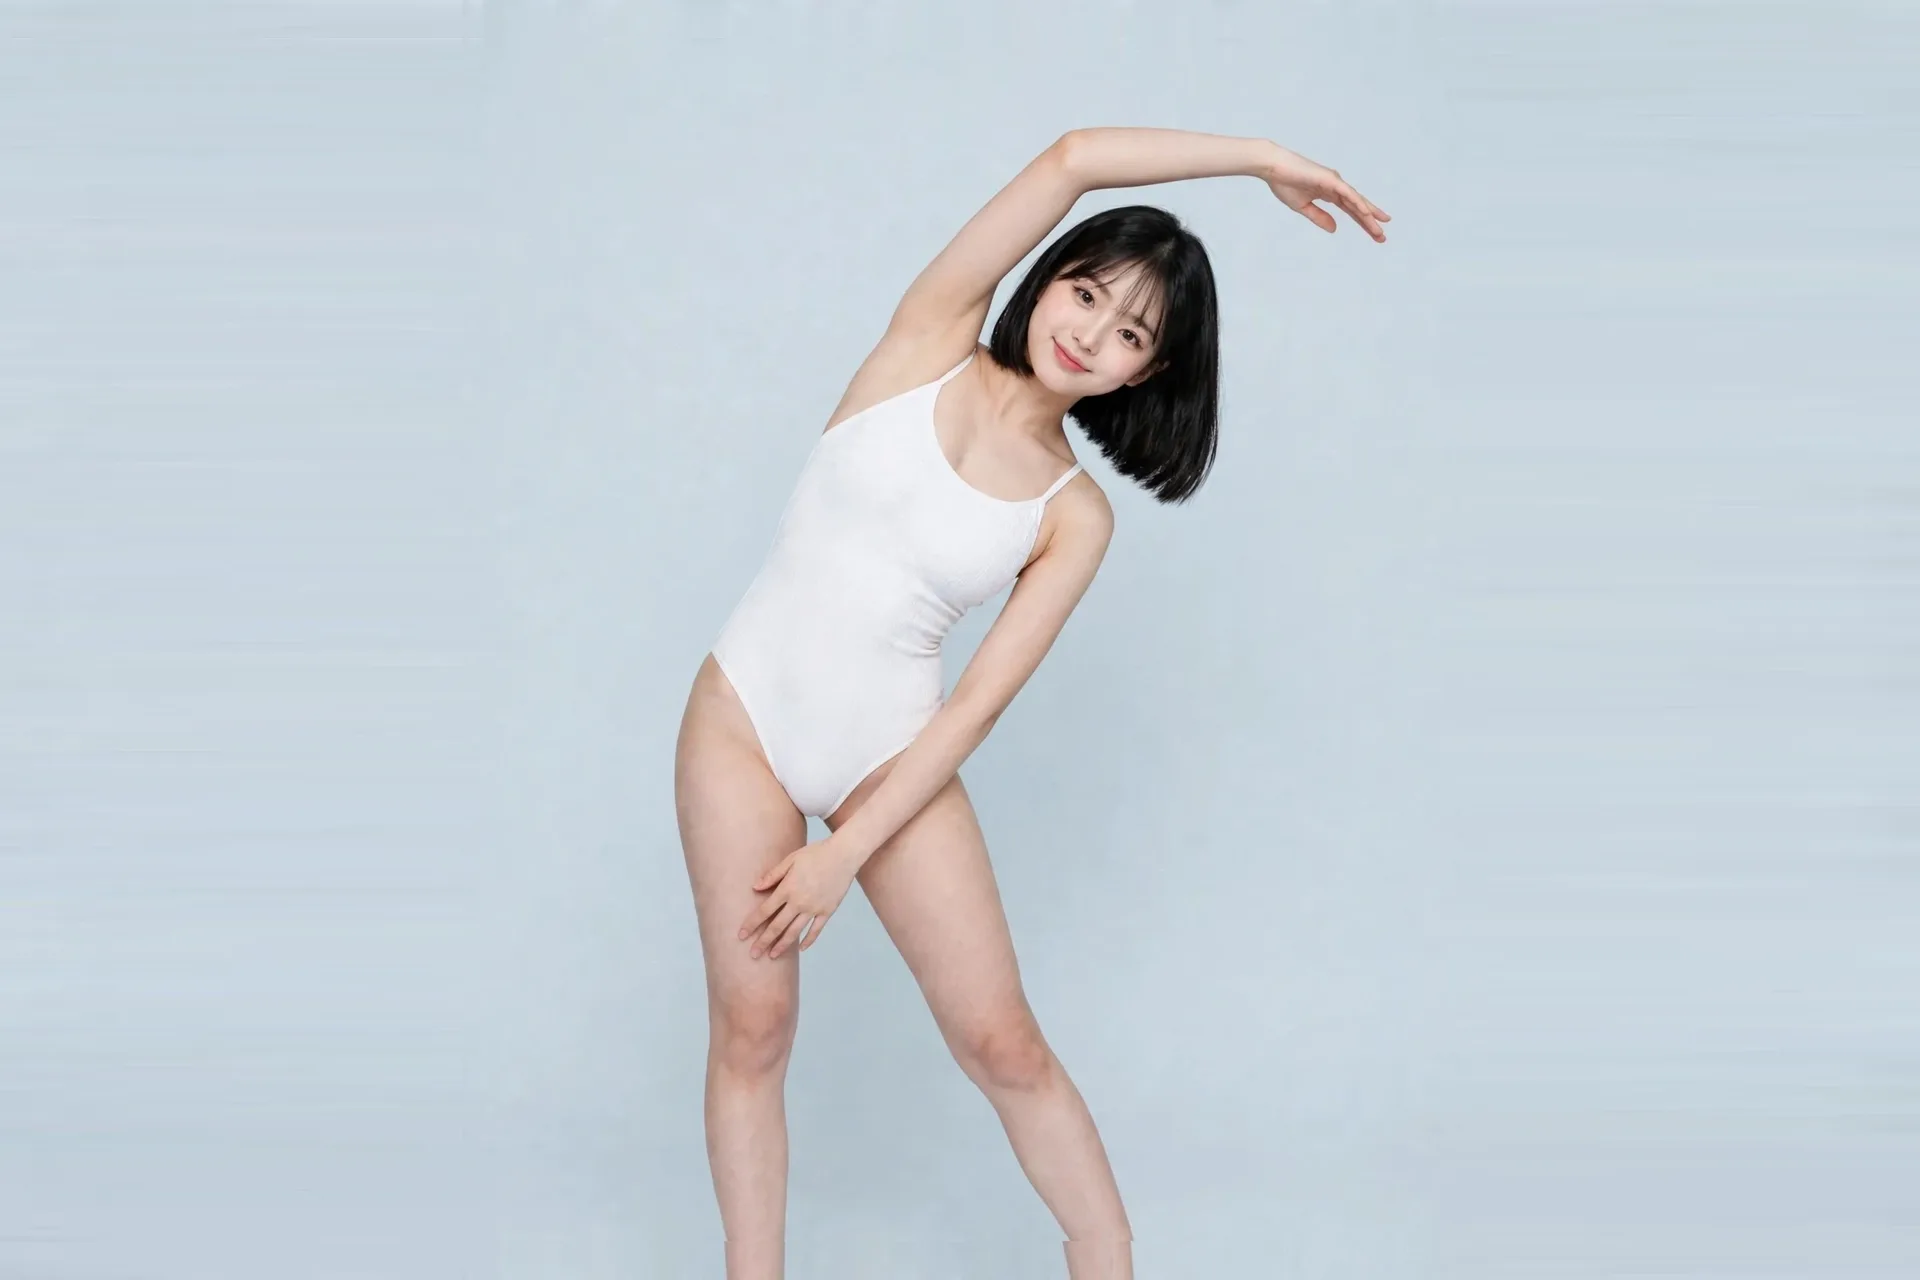
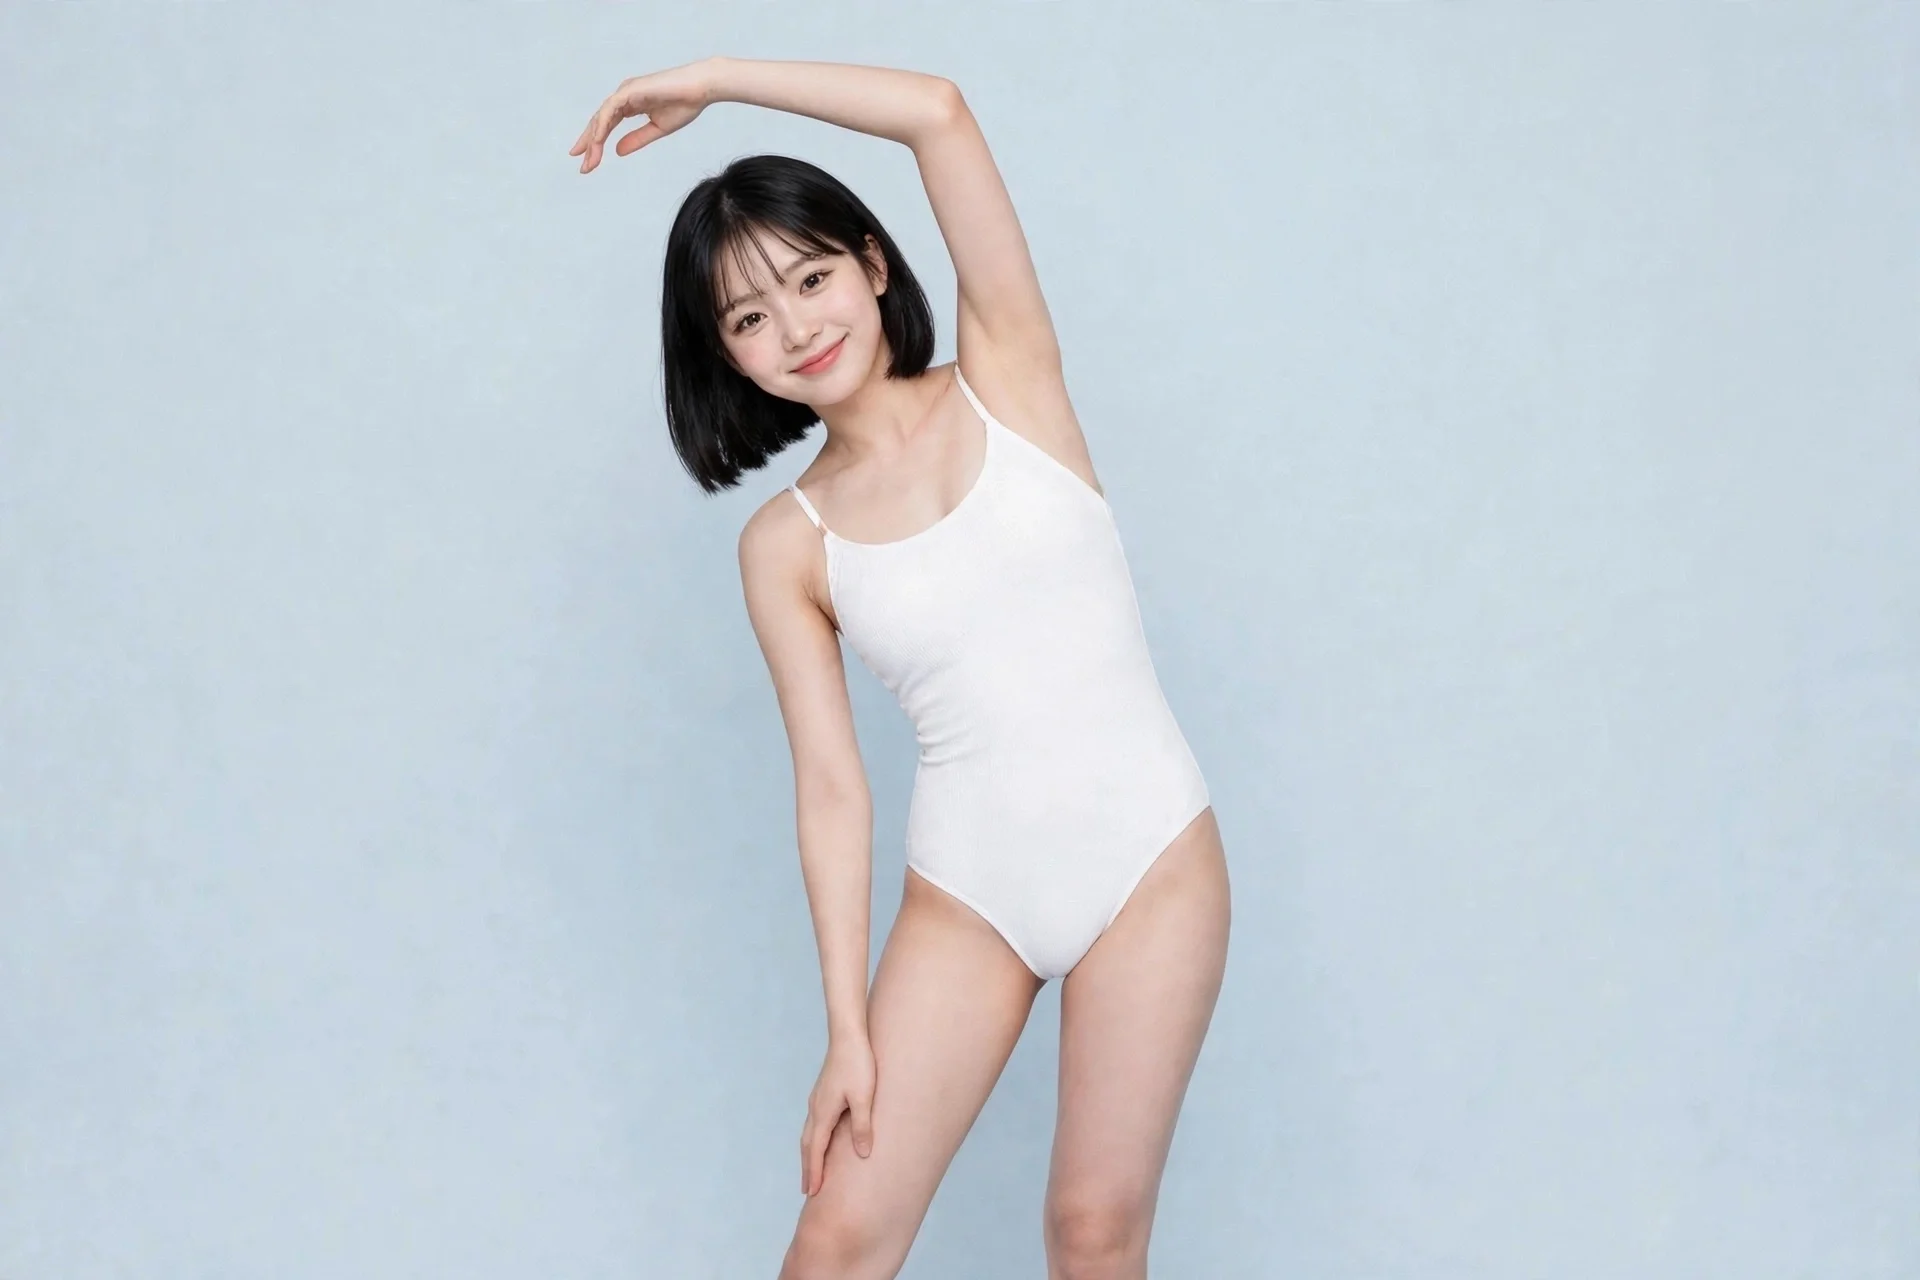
Sena round3: swim6 regen, swim9 vertical original, swim13 tighter crop, purge image cache v2 (v265)

Changed region(s): [[0.2812, 0.0312, 0.7188, 1.0]]

diff --git a/index.html b/index.html
@@ -51,7 +51,7 @@
 <body>
 <header>
   <h1 id="album-title">Mia's Album</h1>
-  <p id="album-sub">확정 얼굴 기준의 컷 모음 (총 177컷) · 버전 264</p>
+  <p id="album-sub">확정 얼굴 기준의 컷 모음 (총 177컷) · 버전 265</p>
   <div class="char-switch" role="tablist" aria-label="캐릭터 선택">
     <button type="button" class="char-btn active" id="btn-mia">Mia</button>
     <button type="button" class="char-btn" id="btn-sua">Sua</button>
@@ -988,27 +988,27 @@
     btnYuna.classList.toggle('active', name === 'yuna');
     if (name === 'ciel'){
       albumTitle.textContent = "Ciel's Album";
-      albumSub.textContent = '단발 귀여운상 기준의 컷 모음 (총 4컷) · 버전 264';
+      albumSub.textContent = '단발 귀여운상 기준의 컷 모음 (총 4컷) · 버전 265';
       document.title = "Ciel's Album";
     } else if (name === 'sena'){
       albumTitle.textContent = "Sena's Album";
-      albumSub.textContent = '시크한 단발 귀염상 기준의 컷 모음 (총 50컷) · 버전 264';
+      albumSub.textContent = '시크한 단발 귀염상 기준의 컷 모음 (총 50컷) · 버전 265';
       document.title = "Sena's Album";
     } else if (name === 'sua'){
       albumTitle.textContent = "Sua's Album";
-      albumSub.textContent = '차분한 귀염상 기준의 컷 모음 (총 223컷) · 버전 264';
+      albumSub.textContent = '차분한 귀염상 기준의 컷 모음 (총 223컷) · 버전 265';
       document.title = "Sua's Album";
     } else if (name === 'lena'){
       albumTitle.textContent = "Lena's Album";
-      albumSub.textContent = '긴 웨이브 청순상 기준의 컷 모음 (총 0컷) · 버전 264';
+      albumSub.textContent = '긴 웨이브 청순상 기준의 컷 모음 (총 0컷) · 버전 265';
       document.title = "Lena's Album";
     } else if (name === 'yuna'){
       albumTitle.textContent = "Yuna's Album";
-      albumSub.textContent = '긴 웨이브 청순 성숙상 기준의 컷 모음 (총 87컷) · 버전 264';
+      albumSub.textContent = '긴 웨이브 청순 성숙상 기준의 컷 모음 (총 87컷) · 버전 265';
       document.title = "Yuna's Album";
     } else {
       albumTitle.textContent = "Mia's Album";
-      albumSub.textContent = '확정 얼굴 기준의 컷 모음 (총 177컷) · 버전 264';
+      albumSub.textContent = '확정 얼굴 기준의 컷 모음 (총 177컷) · 버전 265';
       document.title = "Mia's Album";
     }
     cards = allCards.filter(c => c.offsetParent !== null);

diff --git a/sw.js b/sw.js
@@ -1,5 +1,5 @@
-const CACHE = 'influencer-album-v264';
-const IMGCACHE = 'album-images-v1';
+const CACHE = 'influencer-album-v265';
+const IMGCACHE = 'album-images-v2';
 const CORE = ['./', './index.html', './manifest.webmanifest', './icon-192.png', './icon-512.png',
   './img/face-anchor.webp', './img/sua-anchor-main2.webp', './img/ciel-anchor-main.webp', './img/sena-anchor-main.webp', './img/lena-face-anchor.webp', './img/yuna-anchor-main2.webp'];
 self.addEventListener('install', (e) => {

diff --git a/HANDOFF.md b/HANDOFF.md
@@ -224,3 +224,6 @@ push 후 1~2분 기다리고 라이브에서 직접 확인한다. 확인 전에 
 - **생성 주의 (2026-11-14 확인)**: 한 번에 여러 컷을 걸면 2x2 시트로 반환되는 일이 있었다 — "한 장의 단일 사진, 콜라주·그리드 아님"을 명시하고, 시트로 나오면 패널을 잘라 단일 컷으로 쓸 것. 핑크 랩 미디는 기장이 길고 체형이 납작하게 읽혀 반려됨 — 기장은 무릎 위로 명시할 것.
 
 - **주의 (2026-11-14)**: 캐릭터별 소개 문구의 컷 수는 각 문구 문자열을 직접 지정해서 고칠 것. 파일 첫 매치만 바꾸면 엉뚱한 캐릭터 수가 바뀐다 (Mia 191·Sua 204로 굳어 있던 것을 카드 실측 177·218로 정정, v241).
+
+## 이미지 캐시 규칙 (2026-11-15 v265)
+- sw.js의 이미지 캐시(IMGCACHE)는 cache-first라 같은 파일명으로 내용을 교체하면 폰에 옛 이미지가 계속 남는다. **이미지 내용을 교체하는 배포에서는 반드시 IMGCACHE 버전도 함께 올릴 것** (album-images-vN). 파일명을 바꾸는 것도 대안.
